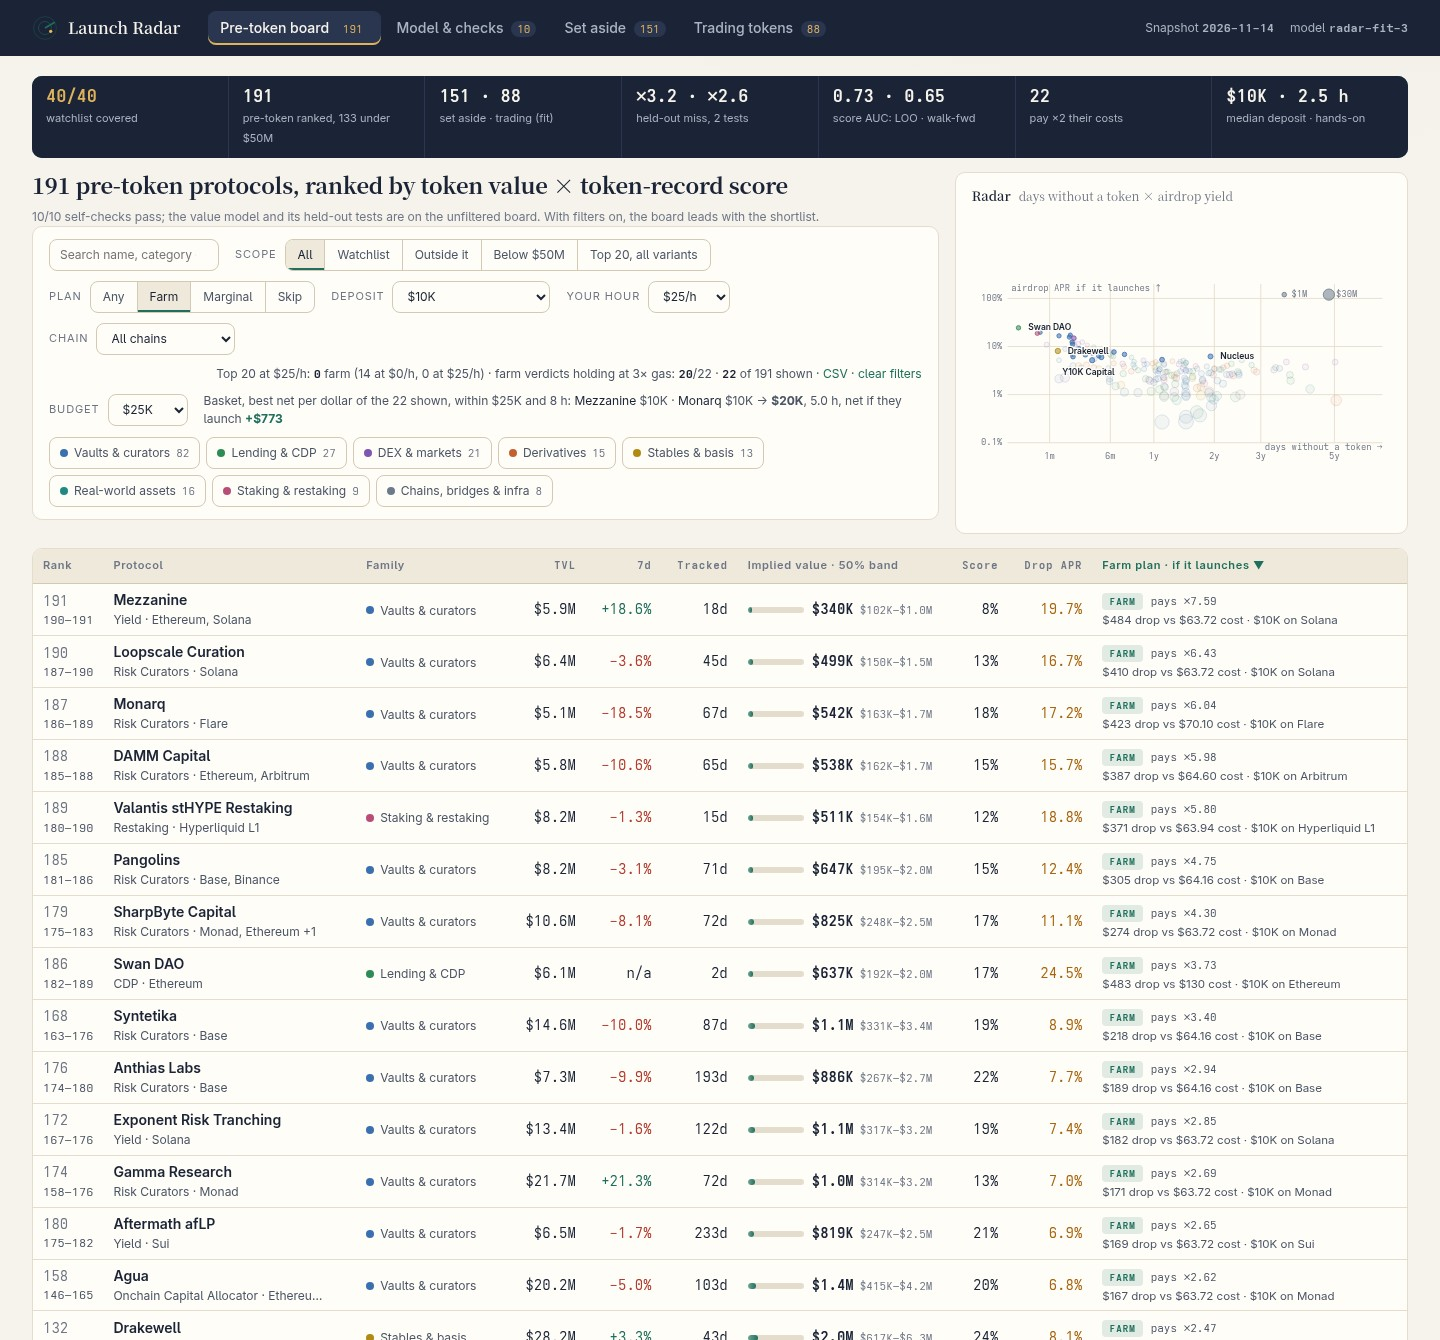
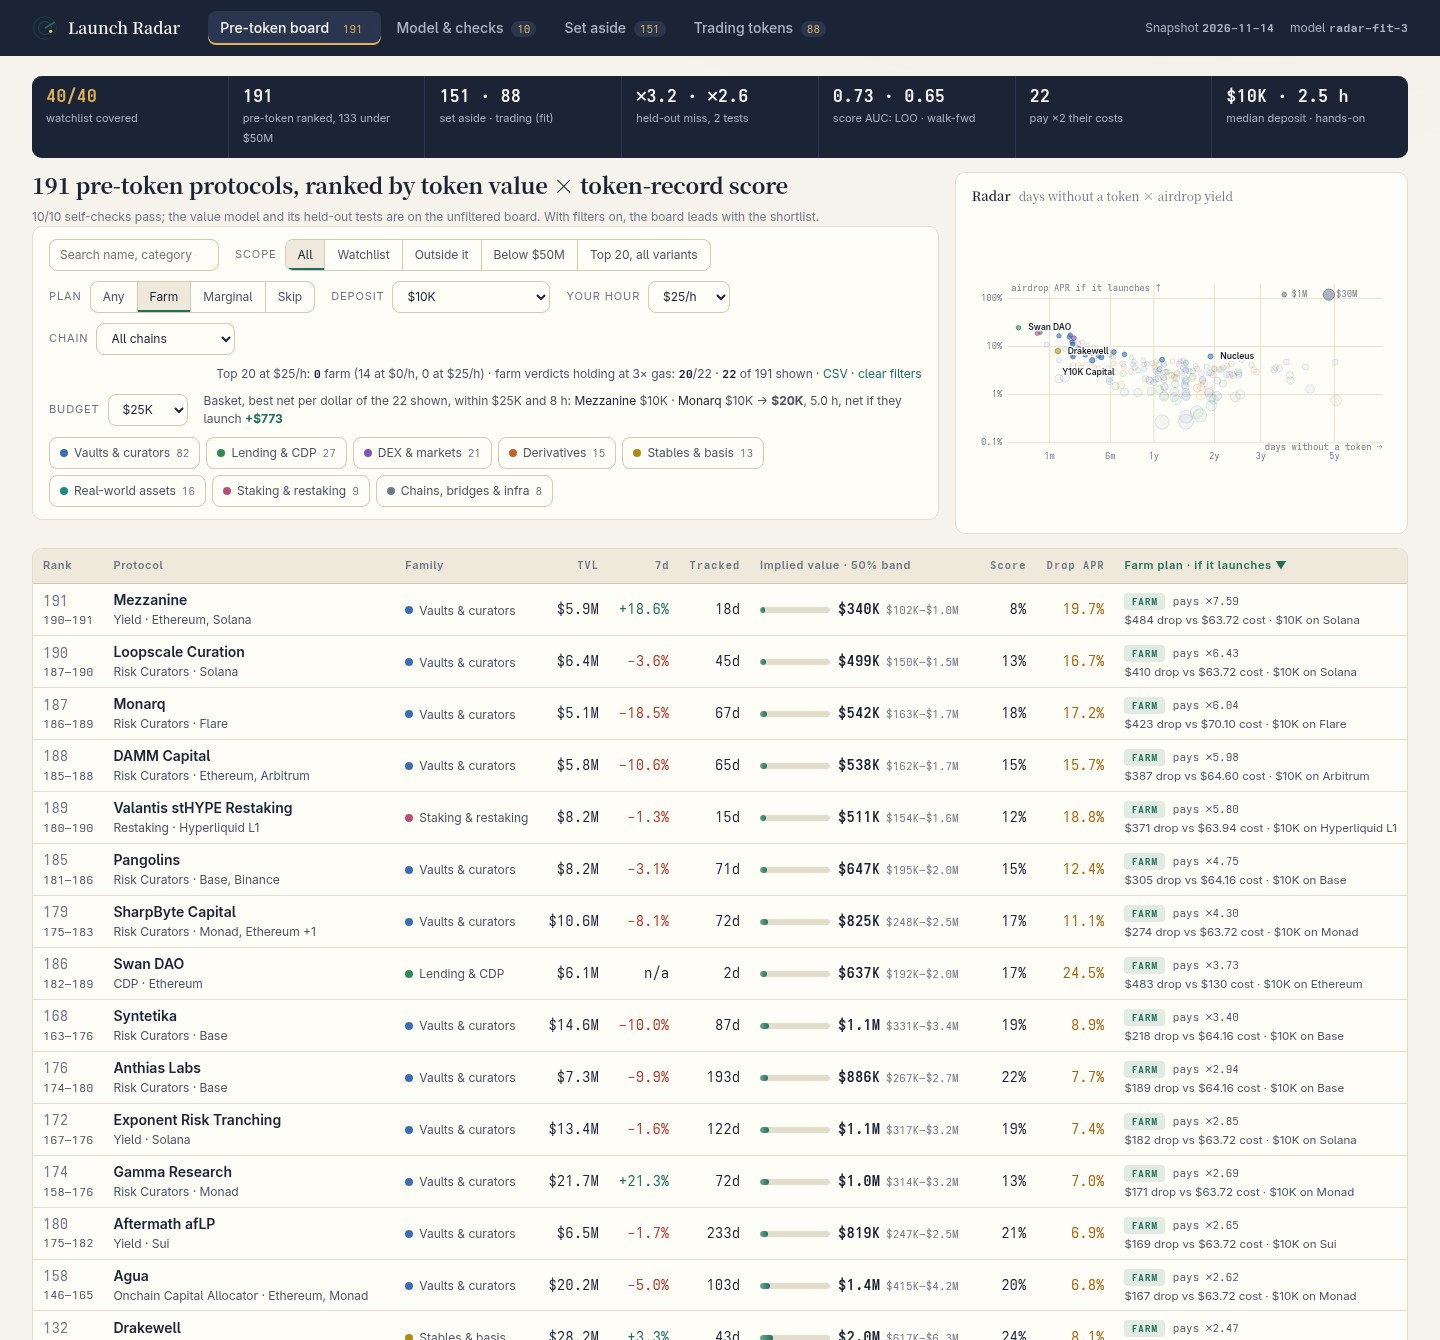
CSS pass, narrowed: labels wrap again (no truncation), selector margin as before; keeps the seven-cell strip, matched radar card height and comparison styling

diff --git a/dashboard/style.css b/dashboard/style.css
@@ -115,12 +115,12 @@ td.rank{color:var(--dim);width:56px;}
 td.rank small{white-space:nowrap;}
 td.proto a,td.proto .nm{font-weight:600;}
 td.proto a:hover{color:var(--accent);}
-td.proto small{margin-top:1px;display:block;max-width:215px;white-space:nowrap;overflow:hidden;text-overflow:ellipsis;}
+td.proto small{margin-top:1px;}
 .wl{font:600 9px var(--mono);color:var(--amber);border:1px solid #a8640f66;border-radius:4px;padding:0 4px;margin-left:6px;vertical-align:2px;}
 .fam{display:inline-flex;align-items:center;gap:6px;font-size:12px;color:var(--muted);white-space:nowrap;}
 td.est{color:var(--dim);font-style:italic;}
-td.val{width:210px;white-space:nowrap;}
-td.val .bar{display:inline-block;width:56px;height:6px;border-radius:3px;background:var(--line);vertical-align:middle;margin-right:8px;overflow:hidden;}
+td.val{width:230px;white-space:nowrap;}
+td.val .bar{display:inline-block;width:70px;height:6px;border-radius:3px;background:var(--line);vertical-align:middle;margin-right:8px;overflow:hidden;}
 td.val .bar i{display:block;height:100%;background:linear-gradient(90deg,#6fa596,var(--accent));border-radius:3px;}
 td.val b{font-weight:600;}
 td.val small{display:inline;margin-left:6px;font:11px var(--mono);color:var(--dim);}
@@ -128,7 +128,7 @@ td.apr{color:var(--amber);}
 td.plan{white-space:nowrap;}
 td.plan .pmult{font:11px var(--mono);color:var(--muted);margin-left:4px;}
 td.plan small{display:block;margin-top:2px;font-size:11.5px;}
-td.proto{min-width:215px;max-width:235px;}
+td.proto{min-width:230px;}
 .verdict{display:inline-block;font:600 10px var(--mono);text-transform:uppercase;letter-spacing:.06em;padding:2px 7px;border-radius:4px;}
 .v-farm{background:#1f6f5c22;color:var(--accent);}
 .v-marginal{background:#a8640f22;color:var(--amber);}
@@ -184,7 +184,7 @@ td.proto{min-width:215px;max-width:235px;}
 .foot{max-width:1440px;margin:0 auto;padding:8px 32px 28px;color:var(--dim);font-size:11.5px;}
 .basket{font-size:12.5px;color:var(--muted);flex-wrap:nowrap;}
 .basket a{color:var(--text);}
-.field.vs{float:right;margin:-6px 0 10px;}
+.field.vs{float:right;margin-top:-6px;}
 .field.vs select{max-width:260px;font-size:12px;}
 .tablewrap:has(.cmp){max-width:860px;}
 .cmp td:first-child{color:var(--muted);}
